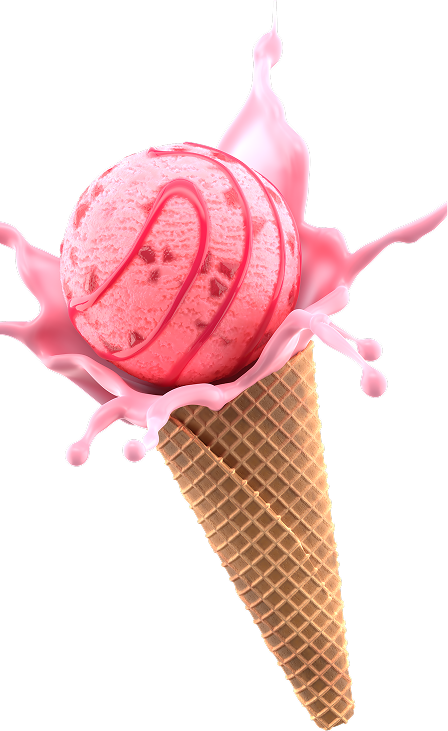
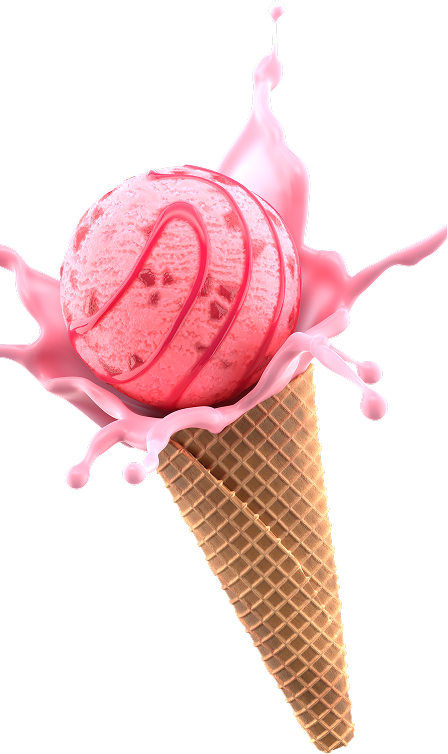
feat: :lipstick: Se agregó fuente de los menús y se acomodaron las imágenes y eslogan

Changed region(s): [[0.0, 0.0, 1.0, 0.9932]]

diff --git a/src/css/style.css b/src/css/style.css
@@ -45,6 +45,7 @@ body{
 .div__menu ul li a{
   color: var(--color-2);
   text-decoration: none;
+  font-family: "Inter_28pt-SemiBold";
   font-size: 28px;
 }
 .div__option{
@@ -57,8 +58,8 @@ body{
 }
 .div__product{
   grid-area: pre;
-  background: blueviolet;
-  width: 900px;
+  /* background: blueviolet; */
+  width: 785px;
   height: 663px;
   top: 81px;
   position: relative;
@@ -66,6 +67,7 @@ body{
 .div__product > img{
   position: absolute;
   right: 0;
+  top: -15px;
 }
 .div__iceCreams img:nth-child(1),
 .div__iceCreams img:nth-child(2),
@@ -77,18 +79,24 @@ body{
 }
 .div__iceCreams img:nth-child(1){
   transform: rotate(85.74deg);
+  width: 514.86px;
+  height: 746.6px;
   z-index: 5;
   left: 0;
-  bottom: -225px;
+  bottom: -245px;
 }
 .div__iceCreams img:nth-child(2){
   transform: rotate(57.18deg);
+  width: 447.43px;
+  height: 832.89px;
   z-index: 10;
   left: 30px;
-  bottom: -60px;
+  bottom: -115px;
 }
 .div__iceCreams img:nth-child(3){
   transform: rotate(32.69deg);
+  width: 447.43px;
+  height: 753.54px;
   z-index: 5;
-  left: -120px;
+  left: -135px;
 }
